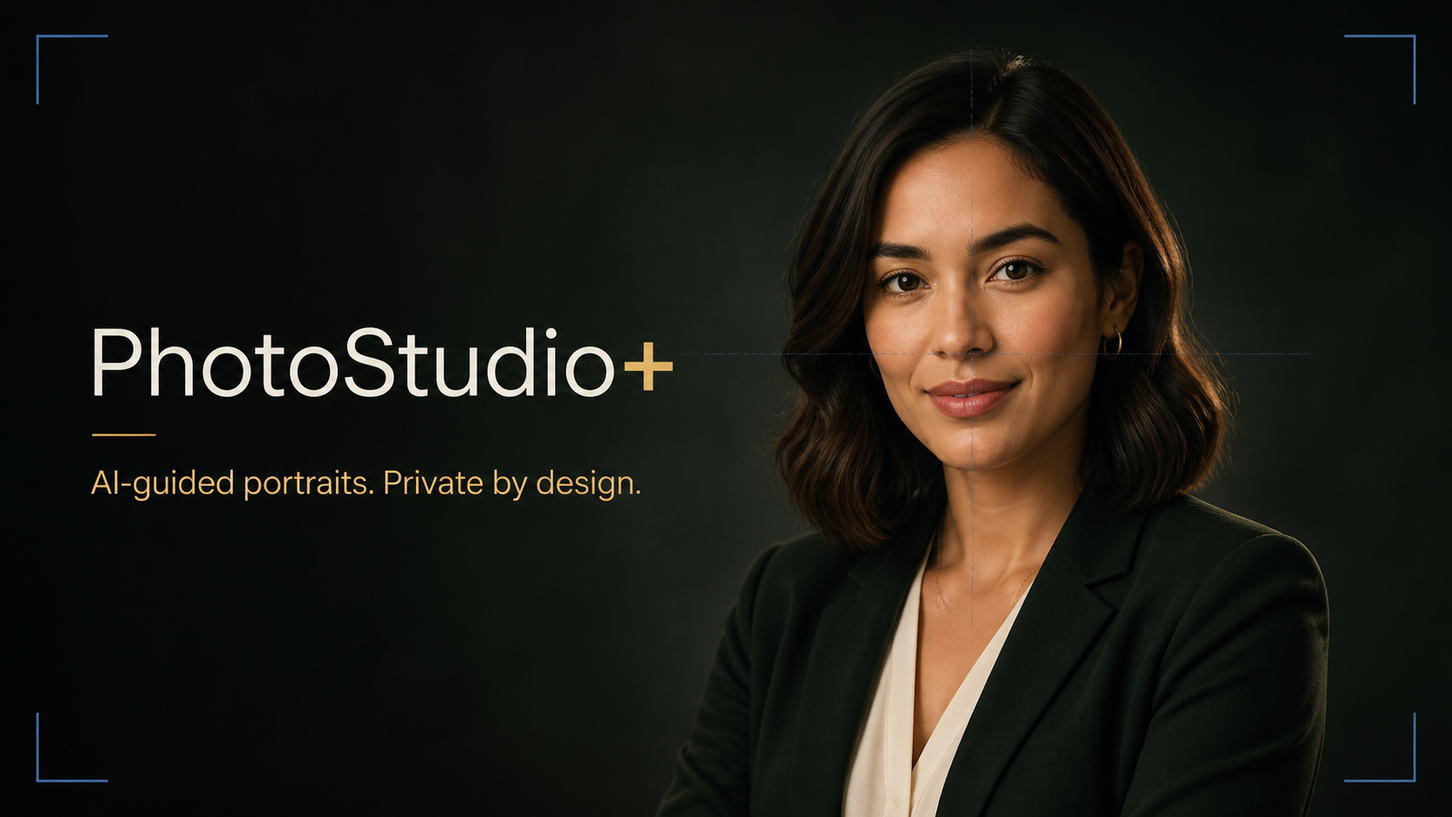
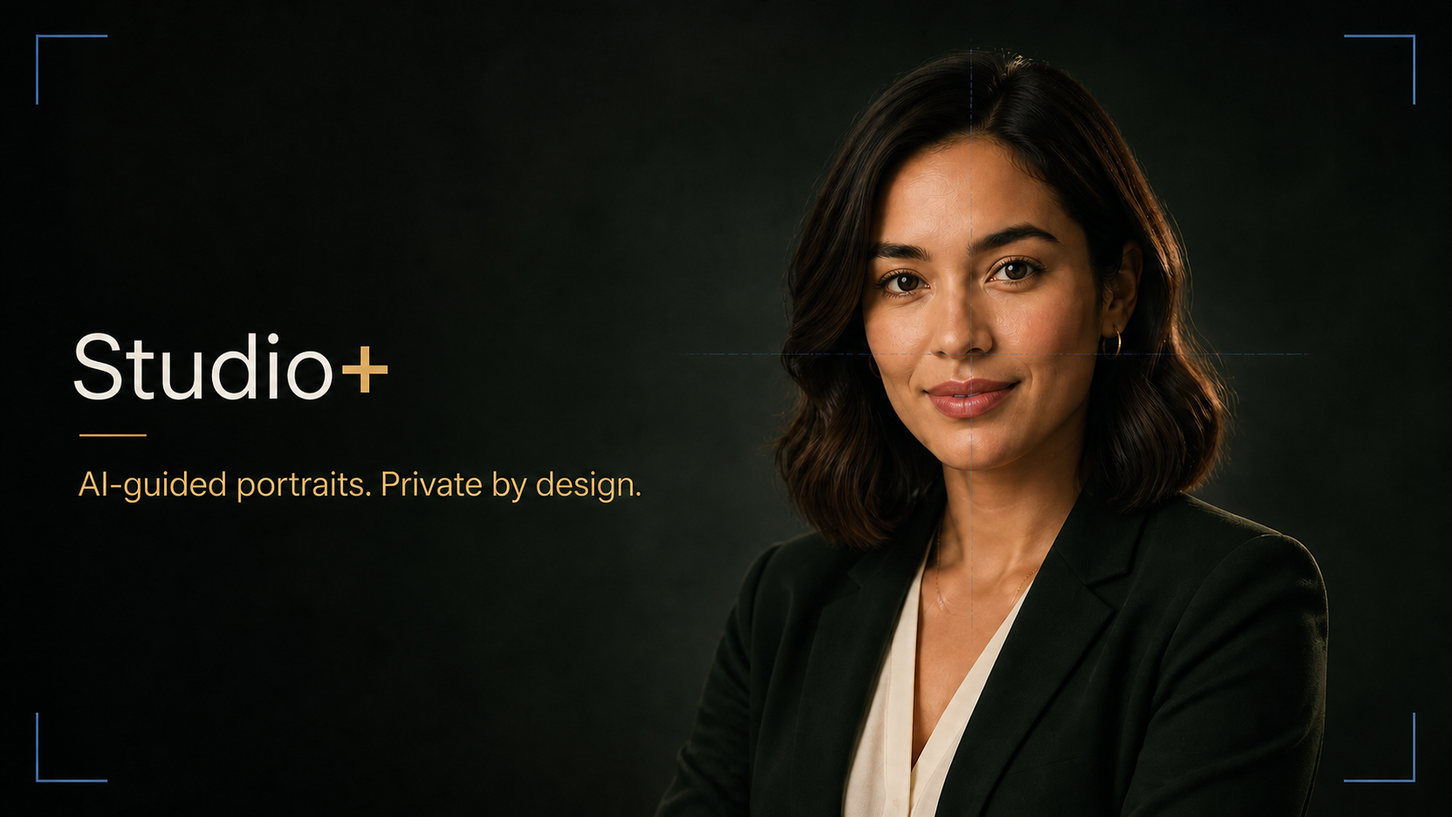
refactor: rename product to Studio+

diff --git a/app/studio.tsx b/app/studio.tsx
@@ -132,7 +132,7 @@ export default function Studio(){
  const exitLoadedSession=()=>{setSessionAgent(null);setSessionCode("");setScanError("");setView("profile");history.replaceState({},"","/");window.scrollTo({top:0,behavior:"smooth"})};
  const confirm=()=>{const finalUrl=photo||original;const item:Photo={id:crypto.randomUUID(),dataUrl:finalUrl,createdAt:new Date().toISOString(),enhanced,profileOK,brandOK,agentName:sessionAgent?.agentName||walkInAgent.agentName,agentId:sessionAgent?.agentId||walkInAgent.agentId,...dimensions};setGallery(g=>[item,...g.filter(x=>x.dataUrl!==finalUrl)].slice(0,6));setView("success")};
  const download=(src:string,name="iqi-professional-portrait.jpg")=>{const a=document.createElement("a");a.href=src;a.download=name;document.body.appendChild(a);a.click();a.remove();setToast("Photo downloaded")};
- const printPhoto=(src:string)=>{const w=window.open("","_blank","noopener,noreferrer");if(!w){setToast("Allow pop-ups to open the print page.");return}const pageSize={auto:"auto", "4x6":"4in 6in",a4:"A4",letter:"letter"}[printSize];w.document.write(`<title>Print PhotoStudio+ Portrait</title><style>@page{size:${pageSize};margin:0}*{box-sizing:border-box}body{margin:0;display:grid;place-items:center;min-height:100vh;background:#eee}img{display:block;max-width:100%;max-height:100vh;object-fit:contain}@media print{html,body{width:100%;height:100%;background:#fff}img{width:100%;height:100%;object-fit:contain}}</style><img src="${src}" onload="setTimeout(()=>print(),120)" alt="PhotoStudio+ portrait">`);w.document.close();setToast("Choose any installed printer in the system dialog")};
+ const printPhoto=(src:string)=>{const w=window.open("","_blank","noopener,noreferrer");if(!w){setToast("Allow pop-ups to open the print page.");return}const pageSize={auto:"auto", "4x6":"4in 6in",a4:"A4",letter:"letter"}[printSize];w.document.write(`<title>Print Studio+ Portrait</title><style>@page{size:${pageSize};margin:0}*{box-sizing:border-box}body{margin:0;display:grid;place-items:center;min-height:100vh;background:#eee}img{display:block;max-width:100%;max-height:100vh;object-fit:contain}@media print{html,body{width:100%;height:100%;background:#fff}img{width:100%;height:100%;object-fit:contain}}</style><img src="${src}" onload="setTimeout(()=>print(),120)" alt="Studio+ portrait">`);w.document.close();setToast("Choose any installed printer in the system dialog")};
  const removePhoto=()=>{if(!deletePhotoId)return;setGallery(current=>current.filter(item=>item.id!==deletePhotoId));setDeletePhotoId(null);setToast("Photo removed")};
  const reset=()=>{stopCamera();stopScanner();setPhoto("");setOriginal("");setAssessment(null);setEnhanced(false);setProfileOK(true);setBrandOK(true);setGallery([]);setSessionAgent(null);setSessionCode("");setResetConfirm(false);setDeletePhotoId(null);localStorage.removeItem("ps-gallery");setView("profile");history.replaceState({},"","/");setToast("Session reset")};
  const cameraAgent=sessionAgent??walkInAgent;
@@ -141,7 +141,7 @@ export default function Studio(){
  if(view==="select"&&original)return <StudioEnhanceEditor key={original} src={original} onBack={()=>setView(enhanceBackView)} onContinue={(result,usedEnhancement,nextDimensions)=>{setPhoto(result);setDimensions(nextDimensions);setEnhanced(usedEnhancement);setView("consent")}}/>;
  if(view==="capture"){const placementCopy={checking:"Detecting…",ready:capturePreview?`Photo ${shots.length} captured`:shooting?"Hold still":"Hold still · 5s",close:"Step back",far:"Move closer",center:"Align face"}[placement];return <main className={`studio-camera placement-${placement} crop-${cropFormat}`}><div className="camera-workspace"><div className="camera-top"><button type="button" className="camera-close" onClick={closeGuidedCamera} aria-label="Close camera"><span aria-hidden="true">×</span></button><div><span>{cameraAgent.agentName}</span><small>Auto capture</small></div><b>{shots.length}/{shotCount}</b></div><div ref={cameraViewportRef} className="camera-viewport"><video ref={videoRef} autoPlay muted playsInline/><div className="camera-stage"><div className="ratio-label">{cropFormat==="square"?"1:1 SQUARE":"4:5 PORTRAIT"}</div><div className="crop-corners"><i/><i/><i/><i/></div><div ref={headGuideRef} className="head-guide"/><div className="waist-guide"><span>SHOULDERS</span></div></div>{timer!==null?<div className="studio-timer"><div className="countdown-pulse"><strong>{Math.max(1,Math.ceil(timer))}</strong></div></div>:null}{capturePreview?<><div className="camera-flash"/><div className="shot-preview"><img src={capturePreview} alt={`Capture ${shots.length} preview`} width={cropFormat==="square"?960:768} height={960}/><span><Check size={16}/> Photo {shots.length} captured</span></div></>:null}</div><div className={`placement-status ${placement}`}><i>{placement==="ready"?<Check size={17}/>:<ScanLine size={17}/>}</i><span>{placementCopy}</span></div><div className="camera-controls"><div className="format-options" aria-label="Photo crop"><button type="button" className={cropFormat==="portrait"?"active":""} onClick={()=>selectCropFormat("portrait")} aria-pressed={cropFormat==="portrait"}>4:5 Portrait</button><button type="button" className={cropFormat==="square"?"active":""} onClick={()=>selectCropFormat("square")} aria-pressed={cropFormat==="square"}>1:1 Square</button></div><div className="shot-options"><span>Photos</span>{([1,2,3,5] as const).map(n=><button type="button" className={shotCount===n?"active":""} onClick={()=>setShotCount(n)} disabled={shooting} aria-pressed={shotCount===n} key={n}>{n}</button>)}</div><div className="auto-capture"><Check size={16}/><span>Auto capture</span><small>5s hold</small></div></div></div>{cameraStatus!=="live"?<div className="camera-loading">{cameraStatus==="error"?<><span>{cameraError}</span><button type="button" onClick={()=>go("console")}>Back to Studio</button></>:"Starting camera…"}</div>:null}</main>}
  if(view==="batch")return <main className={`batch-review batch-${cropFormat}`}><header><div><span className="eyebrow">SESSION</span><h1>Select photo</h1><p>{shots.length===1?"Review and continue.":"Choose one to continue."}</p></div><button type="button" className="take-more" onClick={openGuidedCamera}><Camera size={18}/> Add photos</button></header><div className="batch-grid" role="list">{shots.map((shot,index)=>{const selected=selectedShotId===shot.id;return <article className={selected?"selected":""} key={shot.id} role="listitem"><button type="button" className="photo-choice" onClick={()=>setSelectedShotId(shot.id)} aria-pressed={selected}><img src={shot.original} alt={`Capture ${index+1}`} width={cropFormat==="square"?960:768} height={960}/>{selected?<span className="selected-mark"><Check size={17}/> Selected</span>:null}</button><div className="photo-meta"><span><b>Photo {index+1}</b><small>{cropFormat==="square"?"1:1 square":"4:5 portrait"} · Original</small></span><button type="button" className="remove-shot" onClick={()=>removeShot(shot.id)} aria-label={`Remove photo ${index+1}`}><Trash2 size={17}/></button></div></article>})}</div><footer><span>{shots.length?`${shots.length} photo${shots.length===1?"":"s"}`:"No photos selected"}</span><button type="button" className="primary" disabled={!shots.length} onClick={continueWithSelectedShot}>Continue <ArrowRight size={18}/></button></footer></main>;
- return <main className="app-shell"><a className="skip-link" href="#app-content">Skip to content</a><nav className="app-nav" aria-label="Main navigation"><button type="button" className="app-wordmark" onClick={()=>go("profile")} aria-label="PhotoStudio+ home"><strong>IQI</strong><b>Studio<sup>+</sup></b></button><div className="app-nav-main">{nav.map(({id,label,icon:NavIcon})=><button type="button" className={view===id?"active":""} onClick={()=>go(id)} aria-current={view===id?"page":undefined} key={id}><span aria-hidden="true"><NavIcon size={22}/></span><b>{label}</b></button>)}</div><div className="rail-actions"><button type="button" className="rail-help" onClick={()=>setToast("Help requested")} aria-label="Request help"><HelpCircle size={18}/><b>Help</b></button><button type="button" className="rail-reset" onClick={()=>setResetConfirm(true)}><RotateCcw size={18}/><b>Reset</b></button></div></nav><div id="app-content" className="app-content">
+ return <main className="app-shell"><a className="skip-link" href="#app-content">Skip to content</a><nav className="app-nav" aria-label="Main navigation"><button type="button" className="app-wordmark" onClick={()=>go("profile")} aria-label="Studio+ home"><strong>IQI</strong><b>Studio<sup>+</sup></b></button><div className="app-nav-main">{nav.map(({id,label,icon:NavIcon})=><button type="button" className={view===id?"active":""} onClick={()=>go(id)} aria-current={view===id?"page":undefined} key={id}><span aria-hidden="true"><NavIcon size={22}/></span><b>{label}</b></button>)}</div><div className="rail-actions"><button type="button" className="rail-help" onClick={()=>setToast("Help requested")} aria-label="Request help"><HelpCircle size={18}/><b>Help</b></button><button type="button" className="rail-reset" onClick={()=>setResetConfirm(true)}><RotateCcw size={18}/><b>Reset</b></button></div></nav><div id="app-content" className="app-content">
  {view==="profile"&&<section className="qr-home enter"><div className="qr-intro"><span className="eyebrow">GET STARTED</span><h1>Take a photo or scan QR</h1><p>Start a walk-in portrait now, or scan your Atlas appointment QR.</p><div className="qr-main-actions"><button type="button" className="main-photo-action" onClick={openGuidedCamera}><Camera size={18}/> Take a photo</button><Link href="/atlas" prefetch={false}>Open Atlas <ArrowRight size={16}/></Link></div></div><div className={`qr-scanner ${scanStatus}`} aria-busy={scanStatus==="starting"}><video ref={scannerVideoRef} autoPlay muted playsInline/><div className="scan-shade"/><div className="scan-frame"><i/><i/><i/><i/>{scanStatus==="live"?<span role="status">Scanning…</span>:scanStatus==="starting"?<span role="status">Preparing camera…</span>:<QrCode size={54}/>}</div>{scanStatus!=="live"?<button type="button" className="scanner-start" onClick={startScanner} disabled={scanStatus==="starting"}><Camera size={19}/>{scanStatus==="starting"?"Starting camera…":scanStatus==="error"?"Try QR camera again":"Scan QR"}</button>:null}</div><div className="manual-checkin"><div><Keyboard size={19}/><span><b>Enter code</b></span></div><form onSubmit={e=>{e.preventDefault();loadStudioSession(sessionCode)}}><input name="appointment-code" autoComplete="off" spellCheck={false} translate="no" value={sessionCode} onChange={e=>setSessionCode(e.target.value)} placeholder="PS-IQI-ATLAS-…" aria-label="Appointment code"/><button type="submit"><ScanLine size={18}/> Load</button></form>{scanError?<p role="alert">{scanError}</p>:null}</div></section>}
  {view==="capture"&&<section className="dark enter"><Step n={1} label="Photo"/><div className="capture"><div><span className="eyebrow pale">PHOTO</span><h1>{cameraStatus==="live"?"Ready":"Add a photo"}</h1><p>{cameraStatus==="live"?"Look at the lens. Hold still.":"Use the camera or upload."}</p><ul><li><span>1</span> One person in frame</li><li><span>2</span> Face the light</li></ul>{cameraError?<div className="camera-error" role="alert">{cameraError}</div>:null}<button type="button" className="gold" disabled={cameraStatus==="starting"||checking} onClick={takePhoto}><Camera size={19}/>{cameraStatus==="live"?"Take photo":cameraStatus==="starting"?"Starting…":cameraStatus==="error"?"Try again":"Start camera"}</button><button type="button" className="upload" onClick={()=>fileRef.current?.click()} disabled={checking}><Upload size={18}/>{checking?"Checking…":"Upload"}</button><input ref={fileRef} className="sr-only" type="file" accept="image/jpeg,image/png,image/webp" onChange={upload} aria-label="Upload portrait photo"/></div><div className={`viewfinder ${cameraStatus==="live"?"has-video":""}`}><div className="vfhead"><span>DEVICE CAMERA</span><span className={cameraStatus==="live"?"live":""}>● {cameraStatus==="live"?"LIVE":"READY"}</span></div><video ref={videoRef} className="camera-video" autoPlay playsInline muted/><div className="person"><i/><b/></div><div className="oval"/><div className="cross x"/><div className="cross y"/><span className="tip">Eyes on line</span><div className="vfmeta"><span>LOCAL</span><span>PRIVATE</span><span>HD</span></div>{count!==null?<div className="count">{count||<Check size={72}/>}</div>:null}</div></div></section>}
  {view==="consent"&&<section className="flow narrow enter"><Step n={4} label="Access"/><span className="eyebrow">PERMISSIONS</span><h1>Choose access</h1><p className="lead">Change anytime.</p><div className="consents"><label><span><b>Atlas profile</b><small>Set as your profile photo.</small></span><input name="atlas-profile-permission" type="checkbox" aria-label="Allow use on my Atlas profile" checked={profileOK} onChange={e=>setProfileOK(e.target.checked)}/><i/></label><label><span><b>Brand use</b><small>Approve this photo for IQI materials.</small></span><input name="brand-materials-permission" type="checkbox" aria-label="Allow use in IQI brand materials" checked={brandOK} onChange={e=>setBrandOK(e.target.checked)}/><i/></label></div><p className="privacy">Approval stays with this photo.</p><button type="button" className="primary" disabled={!profileOK||!photo} onClick={confirm}>Save photo</button></section>}

diff --git a/app/atlas/profile.tsx b/app/atlas/profile.tsx
@@ -34,6 +34,6 @@ export default function AtlasProfile({agentSlug="aaron-paul"}:{agentSlug?:string
    </div>
   </section>
   {showAssessment?<div className="booking-backdrop" role="dialog" aria-modal="true" aria-label="Photo assessment"><div className="booking-card assessment-modal"><button type="button" className="close" onClick={()=>setShowAssessment(false)} aria-label="Close assessment"><X/></button><small>PHOTO QUALITY</small><h2>{rating.score}/100 · {rating.label}</h2><p>Current image.</p><div className="metric-list">{rating.metrics.map(metric=><div className="metric" key={metric.name}><div><b>{metric.name}</b><span>{metric.note}</span><strong>{metric.score}</strong></div><i><b style={{width:`${metric.score}%`}}/></i></div>)}</div><div className="rating-method"><ShieldCheck size={18}/><p><b>On-device score</b><span>Size 20 · Light 20 · Contrast 15 · Sharp 25 · Crop 20</span></p></div></div></div>:null}
-  {booking?<div className="booking-backdrop" role="dialog" aria-modal="true" aria-label="Book studio session"><div className="booking-card"><button type="button" className="close" onClick={()=>{setBooking(false);setConfirmed(false);setQr("");setQrError("")}} aria-label="Close"><X/></button>{!confirmed?<><span className="modal-icon"><Camera/></span><small>STUDIO</small><h2>Book studio</h2><p>Choose a time. Scan at arrival.</p><div className="booking-fields"><label>Date<input name="appointment-date" autoComplete="off" type="date" value={date} onChange={e=>setDate(e.target.value)}/></label><label>Time<select name="appointment-time" value={time} onChange={e=>setTime(e.target.value)}><option>09:30</option><option>10:30</option><option>14:00</option><option>16:30</option></select></label></div><div className="booking-location"><MapPin/><div><b>IQI PhotoStudio+</b><span>Menara IQI, Kuala Lumpur · Level 12</span></div></div><button type="button" className="confirm" onClick={()=>setConfirmed(true)}>Book session</button></>:<><span className="modal-icon success"><QrCode/></span><small>CONFIRMED</small><h2>Studio QR</h2><p>Scan at PhotoStudio+.</p><div className="qr-wrap" aria-live="polite">{qr?<img src={qr} alt={`PhotoStudio appointment QR for ${agent.name}`} width={360} height={360}/>:<span className="qr-loading">Creating QR…</span>}</div><div className="session-code"><small>SESSION CODE</small><code translate="no">{session}</code><span>Use if QR scanning fails.</span></div>{qrError?<p className="qr-error">{qrError}</p>:null}<div className="appointment-meta"><div><small>AGENT</small><b>{agent.name}</b></div><div><small>TIME</small><b>{appointmentLabel}</b></div></div><button type="button" className="confirm" disabled={!qr} onClick={openStudio}><QrCode size={18}/> Open studio</button></>}</div></div>:null}
+  {booking?<div className="booking-backdrop" role="dialog" aria-modal="true" aria-label="Book studio session"><div className="booking-card"><button type="button" className="close" onClick={()=>{setBooking(false);setConfirmed(false);setQr("");setQrError("")}} aria-label="Close"><X/></button>{!confirmed?<><span className="modal-icon"><Camera/></span><small>STUDIO</small><h2>Book studio</h2><p>Choose a time. Scan at arrival.</p><div className="booking-fields"><label>Date<input name="appointment-date" autoComplete="off" type="date" value={date} onChange={e=>setDate(e.target.value)}/></label><label>Time<select name="appointment-time" value={time} onChange={e=>setTime(e.target.value)}><option>09:30</option><option>10:30</option><option>14:00</option><option>16:30</option></select></label></div><div className="booking-location"><MapPin/><div><b>IQI Studio+</b><span>Menara IQI, Kuala Lumpur · Level 12</span></div></div><button type="button" className="confirm" onClick={()=>setConfirmed(true)}>Book session</button></>:<><span className="modal-icon success"><QrCode/></span><small>CONFIRMED</small><h2>Studio QR</h2><p>Scan at Studio+.</p><div className="qr-wrap" aria-live="polite">{qr?<img src={qr} alt={`Studio appointment QR for ${agent.name}`} width={360} height={360}/>:<span className="qr-loading">Creating QR…</span>}</div><div className="session-code"><small>SESSION CODE</small><code translate="no">{session}</code><span>Use if QR scanning fails.</span></div>{qrError?<p className="qr-error">{qrError}</p>:null}<div className="appointment-meta"><div><small>AGENT</small><b>{agent.name}</b></div><div><small>TIME</small><b>{appointmentLabel}</b></div></div><button type="button" className="confirm" disabled={!qr} onClick={openStudio}><QrCode size={18}/> Open studio</button></>}</div></div>:null}
  </main>
 }

diff --git a/app/app-ui.css b/app/app-ui.css
@@ -49,7 +49,7 @@ html,body,button,input{font-family:ui-sans-serif,-apple-system,BlinkMacSystemFon
 .profile-details>span i{width:7px;height:7px;border-radius:50%;background:#43a47d}
 @media(max-width:700px){.home-screen .session-card{grid-template-columns:1fr}.home-screen .profile-preview{order:-1;width:132px;max-width:132px;margin:12px auto 0;border-radius:14px}.home-screen .profile-preview .hero-photo{height:auto;min-height:0;aspect-ratio:4/5}.home-screen .profile-details{display:block;padding:8px 9px;text-align:center}.home-screen .profile-details small{display:none}.home-screen .profile-details strong{font-size:13px}.home-screen .profile-details>span{justify-content:center;margin-top:3px;font-size:10px}}
 
-/* PhotoStudio+ appointment check-in */
+/* Studio+ appointment check-in */
 .qr-home{height:100%;min-height:0!important;display:grid;grid-template-columns:minmax(280px,.72fr) minmax(420px,1.1fr);grid-template-rows:1fr auto;gap:22px;padding:clamp(28px,4vw,56px)!important;background:linear-gradient(135deg,#fff 0 54%,#f4f7f5 54%)!important}
 .qr-intro{align-self:center;max-width:440px}.qr-intro h1{margin:12px 0 12px;font-size:clamp(38px,4vw,56px);line-height:1.02}.qr-intro p{margin:0 0 24px;color:#68716d;font-size:17px;line-height:1.5}.qr-intro a{display:inline-flex;align-items:center;gap:7px;color:#bd4b2e;font-size:14px;font-weight:750;text-decoration:none}.qr-scanner{position:relative;grid-row:1/3;grid-column:2;min-height:0;overflow:hidden;border-radius:22px;background:#17201d;box-shadow:0 18px 44px rgba(28,38,34,.2)}.qr-scanner video{width:100%;height:100%;display:block;object-fit:cover}.qr-scanner:not(.live) video{opacity:.12}.scan-shade{position:absolute;inset:0;background:radial-gradient(circle at center,transparent 0 27%,rgba(10,16,14,.58) 28%)}.scan-frame{position:absolute;left:50%;top:50%;width:min(54%,310px);aspect-ratio:1;display:grid;place-items:center;translate:-50% -50%;color:#ffffffa0}.scan-frame i{position:absolute;width:45px;height:45px;border-color:#fff}.scan-frame i:nth-child(1){left:0;top:0;border-left:4px solid;border-top:4px solid;border-radius:12px 0 0}.scan-frame i:nth-child(2){right:0;top:0;border-right:4px solid;border-top:4px solid;border-radius:0 12px 0 0}.scan-frame i:nth-child(3){left:0;bottom:0;border-left:4px solid;border-bottom:4px solid;border-radius:0 0 0 12px}.scan-frame i:nth-child(4){right:0;bottom:0;border-right:4px solid;border-bottom:4px solid;border-radius:0 0 12px}.scan-frame span{position:absolute;bottom:-34px;color:#fff;font-size:13px;font-weight:700}.qr-scanner.live .scan-frame:after{position:absolute;left:8%;right:8%;top:10%;height:2px;background:#ef6843;box-shadow:0 0 14px #ef6843;content:"";animation:qr-scan 2.2s ease-in-out infinite}.scanner-start{position:absolute;left:50%;bottom:34px;min-height:50px;display:flex;align-items:center;gap:8px;translate:-50% 0;padding:0 20px;border:0;border-radius:12px;background:#e85d38;color:#fff;font-weight:750;box-shadow:0 10px 24px #0005}.manual-checkin{align-self:end;padding:17px;border:1px solid #e0e5e2;border-radius:15px;background:#fff}.manual-checkin>div{display:flex;align-items:center;gap:10px;margin-bottom:10px;color:#66706b}.manual-checkin>div span{display:flex;flex-direction:column;font-size:12px}.manual-checkin form{display:grid;grid-template-columns:1fr auto;gap:8px}.manual-checkin input{min-width:0;height:44px;padding:0 12px;border:1px solid #dce2df;border-radius:10px}.manual-checkin button{display:flex;align-items:center;gap:7px;padding:0 14px;border:0;border-radius:10px;background:#293a34;color:#fff;font-weight:700}.manual-checkin>p{margin:9px 0 0;color:#bc4b31;font-size:12px}.qr-scanner.error{box-shadow:0 0 0 2px #d95a3d}.qr-scanner.starting .scanner-start{opacity:.65;pointer-events:none}@keyframes qr-scan{0%,100%{top:10%}50%{top:88%}}
 .qr-main-actions{display:flex;align-items:center;flex-wrap:wrap;gap:14px}.qr-main-actions .main-photo-action{min-height:48px;display:inline-flex;align-items:center;justify-content:center;gap:8px;padding:0 18px;border:0;border-radius:10px;background:#293a34;color:#fff;font-size:14px;font-weight:750;box-shadow:0 8px 20px rgba(28,44,37,.16)}.qr-main-actions .main-photo-action:hover{background:#354b42;transform:translateY(-1px)}.qr-main-actions .main-photo-action:focus-visible{outline:3px solid #e85d3866;outline-offset:3px}

diff --git a/app/layout.tsx b/app/layout.tsx
@@ -10,5 +10,5 @@ import "./polish.css";
 import "./device-portability.css";
 import "./studio-enhance.css";
 import "./brand-assets.css";
-export const metadata: Metadata = { title: "PhotoStudio+ · IQI", description: "AI-guided portraits and a permissioned Brand Asset Gallery." };
+export const metadata: Metadata = { title: "Studio+ · IQI", description: "AI-guided portraits and a permissioned Brand Asset Gallery." };
 export default function RootLayout({children}:{children:React.ReactNode}) { return <html lang="en"><body>{children}</body></html>; }

diff --git a/services/codeformer/app.py b/services/codeformer/app.py
@@ -21,7 +21,7 @@ PROCESS_TIMEOUT_SECONDS = int(os.getenv("CODEFORMER_TIMEOUT_SECONDS", "300"))
 FACE_COUNT_PATTERN = re.compile(r"detect\s+(\d+)\s+faces")
 inference_lock = asyncio.Semaphore(1)
 
-app = FastAPI(title="PhotoStudio+ CodeFormer service", version="1.0.0")
+app = FastAPI(title="Studio+ CodeFormer service", version="1.0.0")
 app.add_middleware(
     CORSMiddleware,
     allow_origins=[origin.strip() for origin in os.getenv("ALLOWED_ORIGINS", "http://localhost:3000,http://localhost:3001").split(",") if origin.strip()],

diff --git a/README.md b/README.md
@@ -1,8 +1,8 @@
-# PhotoStudio+
+# Studio+
 
 For the frozen setup, event-day checklist, recovery paths, and exact three-minute product flow, use [HACKATHON_RUNBOOK.md](./HACKATHON_RUNBOOK.md).
 
-PhotoStudio+ is a demo-ready, white-label AI portrait studio for IQI. It helps agents replace missing or weak Atlas profile photos, gives friendly technical retake guidance, records profile and brand-use consent separately, and makes approved high-resolution portraits available to the IQI brand team.
+Studio+ is a demo-ready, white-label AI portrait studio for IQI. It helps agents replace missing or weak Atlas profile photos, gives friendly technical retake guidance, records profile and brand-use consent separately, and makes approved high-resolution portraits available to the IQI brand team.
 
 The app is deliberately offline-first. Browser camera capture, image upload, local photo assessment, enhancement, gallery storage, downloads, and printing work without external APIs. Atlas, IQPilot, n8n, hardware tethering, payments, and notifications remain clearly labelled integration adapters.
 
@@ -68,11 +68,11 @@ Open the local address printed in the terminal, normally [http://localhost:3000]
 The repository contains two separate demo surfaces:
 
 - **Atlas agent profile:** [http://localhost:3000/atlas](http://localhost:3000/atlas)
-- **PhotoStudio+ check-in:** [http://localhost:3000](http://localhost:3000)
+- **Studio+ check-in:** [http://localhost:3000](http://localhost:3000)
 
 Atlas also supports dynamic agent URLs using the IQI API slug: `http://localhost:3000/atlas/{agent}`. For example, Aaron Paul is available at [http://localhost:3000/atlas/aaron-paul](http://localhost:3000/atlas/aaron-paul). Agent slugs are validated before being passed to the IQI API.
 
-The Atlas page demonstrates the agent profile, professional-photo rating, photo-quality warning, local upload, appointment booking, and appointment QR generation. To demo the handoff, book an appointment in Atlas, display the generated QR, then scan it from the PhotoStudio+ first screen. A manual appointment-code field is included as a fallback.
+The Atlas page demonstrates the agent profile, professional-photo rating, photo-quality warning, local upload, appointment booking, and appointment QR generation. To demo the handoff, book an appointment in Atlas, display the generated QR, then scan it from the Studio+ first screen. A manual appointment-code field is included as a fallback.
 
 The profile currently loads Aaron Paul from the public IQI Atlas endpoint through the local `/api/atlas-agent` proxy. The proxy avoids browser CORS issues, caches briefly, and the interface retains an Aaron Paul fallback record if Atlas is temporarily unavailable.
 
@@ -93,7 +93,7 @@ Copy `.env.example` to `.env.local`, or set `CODEFORMER_SERVICE_URL` and `CODEFO
 
 CodeFormer is released under the S-Lab License 1.0 for non-commercial use. Commercial use requires permission from the project contributors, so this integration must remain experimental/non-commercial until the required rights are obtained.
 
-Booking creates a session through `/api/studio-sessions` and also stores a browser-local fallback under `photostudio-session:<session-id>`. The generated QR contains only the PhotoStudio+ check-in URL and opaque appointment ID. PhotoStudio+ validates that ID before opening the capture workflow. For production, replace the in-memory demo session store with authenticated Atlas appointment endpoints and short-lived, signed session IDs.
+Booking creates a session through `/api/studio-sessions` and also stores a browser-local fallback under `photostudio-session:<session-id>`. The generated QR contains only the Studio+ check-in URL and opaque appointment ID. Studio+ validates that ID before opening the capture workflow. For production, replace the in-memory demo session store with authenticated Atlas appointment endpoints and short-lived, signed session IDs.
 
 For a production check:
 
@@ -159,7 +159,7 @@ npx skills add https://github.com/anthropics/skills --skill web-artifacts-builde
 
 Suggested Claude visual-review prompt:
 
-> Act as the design director for a premium, accessible physical photo studio product. Review PhotoStudio+. It must be easy for older and non-technical users, yet polished enough to sell to companies. Identify the five highest-impact visual and UX improvements. Preserve the screens and core flow. Give practical, screen-specific recommendations only.
+> Act as the design director for a premium, accessible physical photo studio product. Review Studio+. It must be easy for older and non-technical users, yet polished enough to sell to companies. Identify the five highest-impact visual and UX improvements. Preserve the screens and core flow. Give practical, screen-specific recommendations only.
 
 Suggested Claude demo-review prompt:
 

diff --git a/HACKATHON_RUNBOOK.md b/HACKATHON_RUNBOOK.md
@@ -1,6 +1,6 @@
-# PhotoStudio+ Hackathon Runbook
+# Studio+ Hackathon Runbook
 
-This is the repeatable operating plan for presenting the same validated PhotoStudio+ build on hackathon day. The app completes its core portrait journey locally; Atlas live data is an enhancement, not a dependency.
+This is the repeatable operating plan for presenting the same validated Studio+ build on hackathon day. The app completes its core portrait journey locally; Atlas live data is an enhancement, not a dependency.
 
 ## The exact build
 
@@ -29,7 +29,7 @@ Atlas profile
   → Low photo-quality prompt
   → Book studio appointment
   → QR code or manual appointment code
-  → PhotoStudio+ session loaded
+  → Studio+ session loaded
   → Guided camera or file import
   → On-device quality and crop check
       ├─ Not ready → clear corrections → retake
@@ -46,7 +46,7 @@ Atlas profile
 Walk-in fallback:
 
 ```text
-PhotoStudio+ home → Take a photo → guided capture → enhance → consent → Photos
+Studio+ home → Take a photo → guided capture → enhance → consent → Photos
 ```
 
 Hardware fallback:
@@ -85,7 +85,7 @@ Printer unavailable → Download image or choose Save as PDF in the system print
 Recommended freeze commands after the final commit:
 
 ```bash
-git tag -a hackathon-demo-v1 -m "Validated PhotoStudio+ hackathon demo"
+git tag -a hackathon-demo-v1 -m "Validated Studio+ hackathon demo"
 git archive --format=zip --output=photostudio-plus-hackathon.zip hackathon-demo-v1
 ```
 

diff --git a/services/codeformer/README.md b/services/codeformer/README.md
@@ -1,6 +1,6 @@
 # CodeFormer restoration service
 
-This service runs the official CodeFormer repository pinned to commit `b33cc7d639d6545bfcccc7e0bc6ae51f24e79c2b`, with Real-ESRGAN enabled for the non-face regions. PhotoStudio+ sends the original image to this service before applying its local background, relighting, and export stages.
+This service runs the official CodeFormer repository pinned to commit `b33cc7d639d6545bfcccc7e0bc6ae51f24e79c2b`, with Real-ESRGAN enabled for the non-face regions. Studio+ sends the original image to this service before applying its local background, relighting, and export stages.
 
 ## Start locally
 
